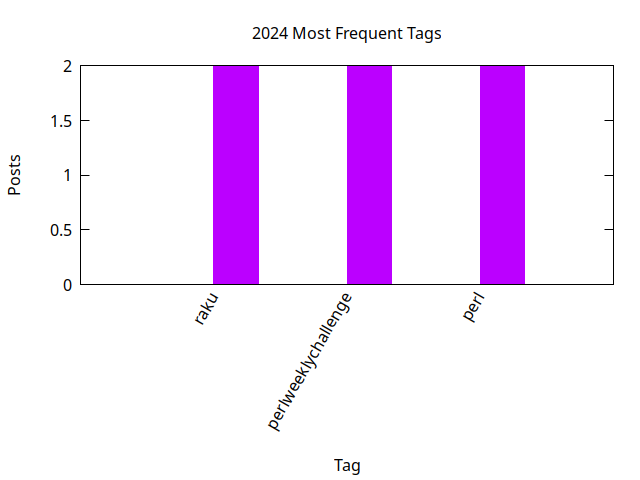
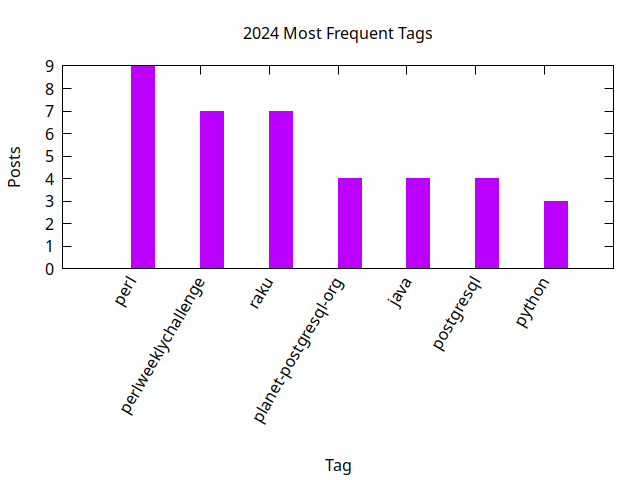
Stats update

diff --git a/_includes/stats/2024.md b/_includes/stats/2024.md
@@ -1,13 +1,17 @@
 <a name="2024" />
 ## 2024 (work in progress)
 
-**2 total posts** have been written on 2024.
-There have been *3 different tags* used, the most
+**12 total posts** have been written on 2024.
+There have been *7 different tags* used, the most
 popular being (sorted by number of posts):
  
-- *raku* (2 posts)  
-- *perlweeklychallenge* (2 posts)  
-- *perl* (2 posts).<br/>
+- *perl* (9 posts)  
+- *perlweeklychallenge* (7 posts)  
+- *raku* (7 posts)  
+- *planet-postgresql-org* (4 posts)  
+- *java* (4 posts)  
+- *postgresql* (4 posts)  
+- *python* (3 posts).<br/>
 <br/>
 The following is the overall 2024 post ratio by month:
 <br/>
@@ -26,7 +30,7 @@ The following is the overall 2024 post ratio by tag (showing max 30 tags):
 
 <div align="right">
 <small>
-Last generated on 2024-01-08 at 11:22
+Last generated on 2024-02-05 at 13:32
 </small>
 </div>
 
